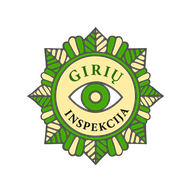
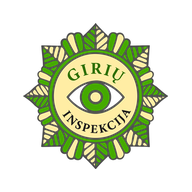
Padidinti Girių inspekcijos logotipą telefono ikonose (#46)
* Improve GI PWA logo prominence without cropping or transparency

* Generate official GI phone icons on icon-improvement branch

* Generate official Giriu inspekcija app icons from logo.png

* Refresh installed PWA icon asset URLs for larger official emblem

* Refresh installed PWA icon asset URLs for larger official emblem

* Check PWA icon paths with safe cache-version query parameters

* Limit app icon update to binary assets and avoid unnecessary pilot changes

* Limit app icon update to binary assets and avoid unnecessary pilot changes

* Limit app icon update to binary assets and avoid unnecessary pilot changes

---------

Changed region(s): [[0.125, 0.125, 0.875, 0.875]]

diff --git a/scripts/generate_brand_icons.py b/scripts/generate_brand_icons.py
@@ -30,10 +30,13 @@ def make_icon(size: int, proportion: float, output: str) -> None:
     canvas.convert("RGB").save(ROOT / output, "PNG", optimize=True)
     print(f"{output}: {size}x{size}, official GI emblem, {int(proportion*100)}% safe area")
 
-make_icon(192, 0.90, "icon-192.png")
-make_icon(512, 0.90, "icon-512.png")
-# Android maskable icons need the emblem entirely inside the center safe circle.
-make_icon(192, 0.72, "icon-192-maskable.png")
-make_icon(512, 0.72, "icon-512-maskable.png")
-make_icon(180, 0.87, "apple-touch-icon.png")
-make_icon(64, 0.90, "favicon-64.png")
+# Fill more of the visible home-screen tile while retaining square, white-backed,
+# undistorted icons. iOS rounds the outer corners; emblem edges stay clear.
+make_icon(192, 0.94, "icon-192.png")
+make_icon(512, 0.94, "icon-512.png")
+# Android maskable icons may be clipped to a circle/other shape by launchers.
+# Keep a wider safety margin than for iOS or regular PWA icons.
+make_icon(192, 0.76, "icon-192-maskable.png")
+make_icon(512, 0.76, "icon-512-maskable.png")
+make_icon(180, 0.95, "apple-touch-icon.png")
+make_icon(64, 0.93, "favicon-64.png")
